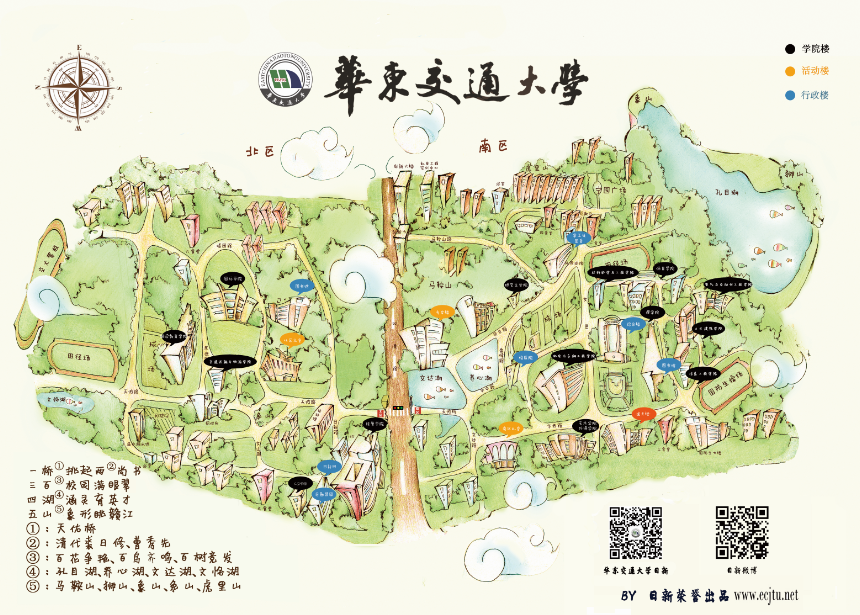
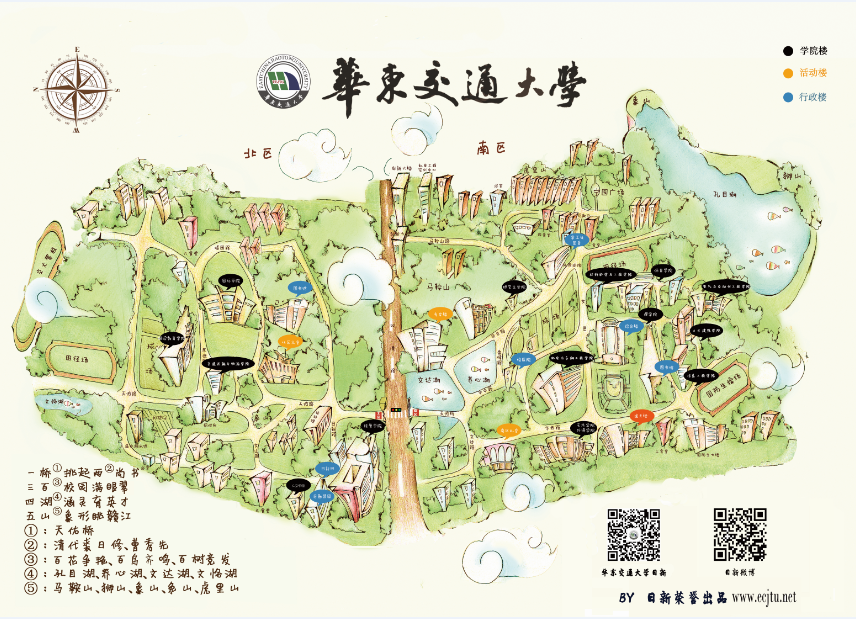
modify map (plugin remains bug..

diff --git a/js/jquery.zoomy0.5.min.js b/js/jquery.zoomy0.5.min.js
@@ -1,0 +1,21 @@
+/*
+ * 	Zoomy Zoom - jQuery plugin
+ *	written by Jacob Lowe	
+ *	http://redeyeops.com/plugins/zoomy
+ *
+ *	Copyright (c) 2010 Jacob Lowe (http://redeyeoperations.com)
+ *	Dual licensed under the MIT (MIT-LICENSE.txt)
+ *	and GPL (GPL-LICENSE.txt) licenses.
+ *
+ *	Built for jQuery library
+ *	http://jquery.com
+ */
+jQuery.fn.zoomy=function(c){function m(a){a.find("img").css("height");a.find("img").css("width");var d=a.attr("href");a.css({position:"relative"}).append('<div class="zoomy"><img /></div>');var b=a.find(".zoomy");p(a,b);a.hover(function(){if(b.attr("id")!="brokeZoomy"){b.show(100);if(b.find("img").length){q(a,d,b);setTimeout(function(){if(!b.find("img").length){n(a,b);k(a,b)}},150)}else{n(a,b);k(a,b)}a.find("img:first").stop()}else a.find("img:first").stop().animate({opacity:1},
+100)},function(){if(b.attr("id")!="brokeZoomy")if(!b.find("img").length){setTimeout(function(){b.hide()},100);a.find("img:first").stop().animate({opacity:1},100)}}).click(function(){if(c.clickable===false)return false})}function q(a,d,b){var e=a.children("img").height(),g=a.children("img").width(),f=c.zoomSize/2;b.find("img").attr("src")!=d&&b.css({top:e/2-f,left:g/2-f}).find("img").attr("src",d).load(function(){var i=b.find("img").height(),j=b.find("img").width();a.attr({x:j,y:i});if(c.glare===true){b.html("<span></span>").css({"background-image":"url("+
+d+")"});setTimeout(function(){var o=b.children("span");c.round===true?o.css({height:c.zoomSize-20,width:c.zoomSize-20,"-webkit-border-radius":c.zoomSize/2+"px","-moz-border-radius":c.zoomSize/2+"px","border-radius":c.zoomSize/2+"px"}):o.css({height:c.zoomSize-20,width:c.zoomSize-20})},100)}else b.html("").css({"background-image":"url("+d+")"});k(a,b)})}function k(a,d){var b=d.offset();a.mousemove(function(e){var g=parseInt(a.attr("x")),f=parseInt(a.attr("y")),i=a.width(),j=a.height();zoomSize=c.zoomSize;
+halfSize=zoomSize/2;posX=e.pageX-b.left-halfSize;posY=e.pageY-b.top-halfSize;ratioX=i/g;ratioY=j/f;leftX=Math.round((e.pageX-b.left)/ratioX)-halfSize;topY=Math.round((e.pageY-b.top)/ratioY)-halfSize;stop=Math.round(halfSize-halfSize*ratioX);rightStop=i-zoomSize+stop;bottomStop=j-zoomSize+stop;if(-stop<=posX&&-stop<=posY&&rightStop>=posX&&bottomStop>=posY)d.show().css({backgroundPosition:"-"+leftX+"px -"+topY+"px",left:posX,top:posY});else if(-stop>=posX)if(-stop<=posY&&bottomStop>=posY)d.show().css({backgroundPosition:"0px -"+
+topY+"px",left:-stop,top:posY});else if(-stop>=posY)d.show().css({backgroundPosition:"0px 0px",left:-stop,top:-stop});else bottomStop<=posY&&d.show().css({backgroundPosition:"0px -"+(f-zoomSize)+"px",left:-stop,top:bottomStop});else if(-stop>+posY)rightStop>posX?d.show().css({backgroundPosition:"-"+leftX+"px 0px",left:posX,top:-stop}):d.show().css({backgroundPosition:"-"+(g-zoomSize)+"px 0px",left:rightStop,top:-stop});else if(rightStop<=posX)bottomStop>posY?d.show().css({backgroundPosition:"-"+(g-
+zoomSize)+"px -"+topY+"px",left:rightStop,top:posY}):d.show().css({backgroundPosition:"-"+(g-zoomSize)+"px -"+(f-zoomSize)+"px",left:rightStop,top:bottomStop});else bottomStop<=posY&&d.show().css({backgroundPosition:"-"+leftX+"px -"+(f-zoomSize)+"px",left:posX,top:bottomStop})})}function n(a,d){var b=a.children("img");h=b.height();w=b.width();d.css({backgroundPosition:"center",left:"0px",top:"0px"}).show().parent("a").css({height:h,width:w})}function p(a,d){var b=a.children("img");c.round===true?
+d.css({height:c.zoomSize,width:c.zoomSize,"-webkit-border-radius":c.zoomSize/2+"px","-moz-border-radius":c.zoomSize/2+"px","border-radius":c.zoomSize/2+"px"}):d.css({height:c.zoomSize,width:c.zoomSize}).children("span").css({height:c.zoomSize-20,width:c.zoomSize-20});if(b.css("float")=="left")if(a.children("img").css("margin")=="0px")a.css({margin:"0px","float":"left"});else{var e=a.children("img").css("margin-top");b.css("margin","0px");a.css({margin:e,"float":"left"})}else if(b.css("float")=="right")if(a.children("img").css("margin")==
+"0px")a.css({margin:"0px","float":"right"});else{e=a.children("img").css("margin-top");b.css("margin","0px");a.css({margin:e,"float":"right"})}else if(a.parent("*").css("text-align")=="center")if(a.children("img").css("margin")=="0px")a.css({margin:"0px auto",display:"block"});else{e=a.children("img").css("margin-top");b.css("margin","0px");a.css({margin:e+" auto",display:"block"})}else a.css({display:"block"});b.load(function(){setTimeout(function(){var g=b.height(),f=b.width();a.css({display:"block",
+height:g,width:f,cursor:"normal"})},200)})}c=$.extend({zoomSize:350,clickable:false,round:true,glare:true},c);var l=$(this);l.size()>1?l.each(function(){m($(this))}):m(l)};

diff --git a/css/style.less b/css/style.less
@@ -912,17 +912,60 @@ body{
 #map2{
   width: 100%;
   height:100%;
-  position: absolute;
+  position: fixed;
+  z-index: 99999;
   top: 0;
   left: 0;
-  background-color: rgba(41, 36, 36, 0.82);
-  img{
-    //width:80%;
-    height:100%;
-    // background-image:url(../images/map2.jpg);
-    // background-repeat: no-repeat;
-    // background-size: cover;
+  background-color: rgba(41, 36, 36, 1);
+  .map_close{
+    display:block;
+    position:absolute;
+    right:50px;
+    top: 50px;
+    font-size: 3rem;
+    background-color: #000;
+    &:hover{
+      color:#fff;
+    }
   }
+  .map_logo{
+    width:100px;
+    height:100px;
+    position: absolute;
+    //left:50px;
+    //top:50px;
+    right:50px;
+    bottom:50px;
+  }
+  .old_img{
+    //width:80%;
+    // width:1000px;
+    // height:500px;
+    // margin:50px;
+    position:absolute;
+    height:100%;
+    left:50%;
+    transform:translateX(-50%);
+    // margin-left: 200px;
+    //background-image:url(../images/map2.jpg);
+    background-repeat: no-repeat;
+    background-size: cover;
+  }
+   .zoomy{
+    position: absolute;
+    width: 300px;
+    height: 300px;
+    display: none;
+    background-repeat: no-repeat;
+    -webkit-box-shadow: 3px 3px 10px #000;
+    -moz-box-shadow: 3px 3px 10px #000;
+    border: 0;
+    line-height: 100px;
+    text-align: center;
+    background-position: center;
+    background-color: #fff;
+    z-index: 1000;
+  } 
 }
 #wechat{
   float:left;

diff --git a/css/style.css b/css/style.css
@@ -978,13 +978,52 @@ body {
 #map2 {
   width: 100%;
   height: 100%;
-  position: absolute;
+  position: fixed;
+  z-index: 99999;
   top: 0;
   left: 0;
-  background-color: rgba(41, 36, 36, 0.82);
+  background-color: #292424;
 }
-#map2 img {
+#map2 .map_close {
+  display: block;
+  position: absolute;
+  right: 50px;
+  top: 50px;
+  font-size: 3rem;
+  background-color: #000;
+}
+#map2 .map_close:hover {
+  color: #fff;
+}
+#map2 .map_logo {
+  width: 100px;
+  height: 100px;
+  position: absolute;
+  right: 50px;
+  bottom: 50px;
+}
+#map2 .old_img {
+  position: absolute;
   height: 100%;
+  left: 50%;
+  transform: translateX(-50%);
+  background-repeat: no-repeat;
+  background-size: cover;
+}
+#map2 .zoomy {
+  position: absolute;
+  width: 300px;
+  height: 300px;
+  display: none;
+  background-repeat: no-repeat;
+  -webkit-box-shadow: 3px 3px 10px #000;
+  -moz-box-shadow: 3px 3px 10px #000;
+  border: 0;
+  line-height: 100px;
+  text-align: center;
+  background-position: center;
+  background-color: #fff;
+  z-index: 1000;
 }
 #wechat {
   float: left;

diff --git a/js/index.js b/js/index.js
@@ -25,11 +25,8 @@ $(window).load(function () {
         }
     });
 });
-$(document).ready(function(){
-/*
-map
- */
-
+$(document).ready(function(){	
+	
 /*
 news slider start
  */
@@ -152,14 +149,25 @@ map start
  */
     (function map(){
     	var map = $("#map"),
-    		wrapper = $("#map .wrapper");
+    		map2 = $("#map2"),
+    		wrapper = $("#map .wrapper"),
+    		btn_close = $(".map_close"),
+    		btn_open = $(".mapGo");
     	map.bind('mouseover', function() {
     		$(wrapper).removeClass('blur');
     	}).bind("mouseout",function(){
 			$(wrapper).addClass('blur');
     	});
-
+    	btn_close.bind("click",function(event){
+    		event.preventDefault();
+    		$(map2).slideUp(600);
+    	});
+    	btn_open.bind("click",function(event){
+    		event.preventDefault();
+    		$(map2).slideDown(600);
+    	});
     }())
+
 /*
 map end
  */
